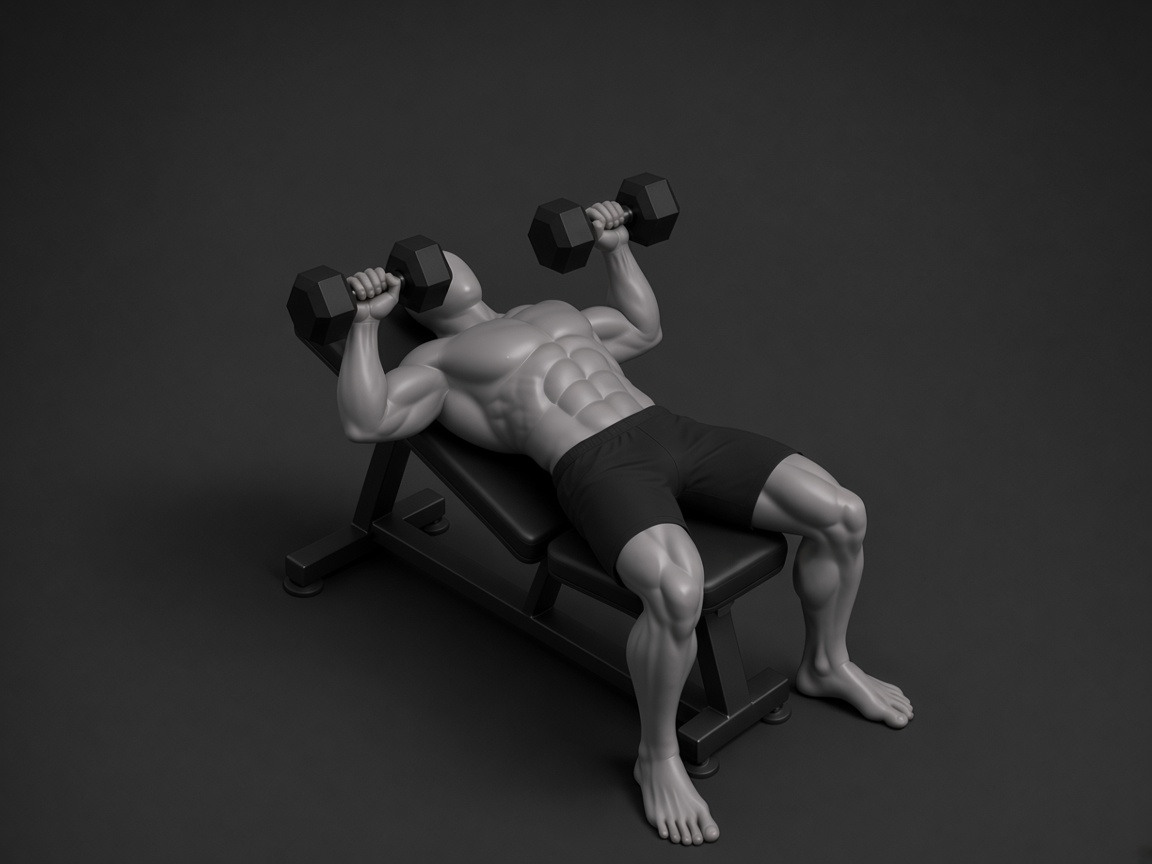
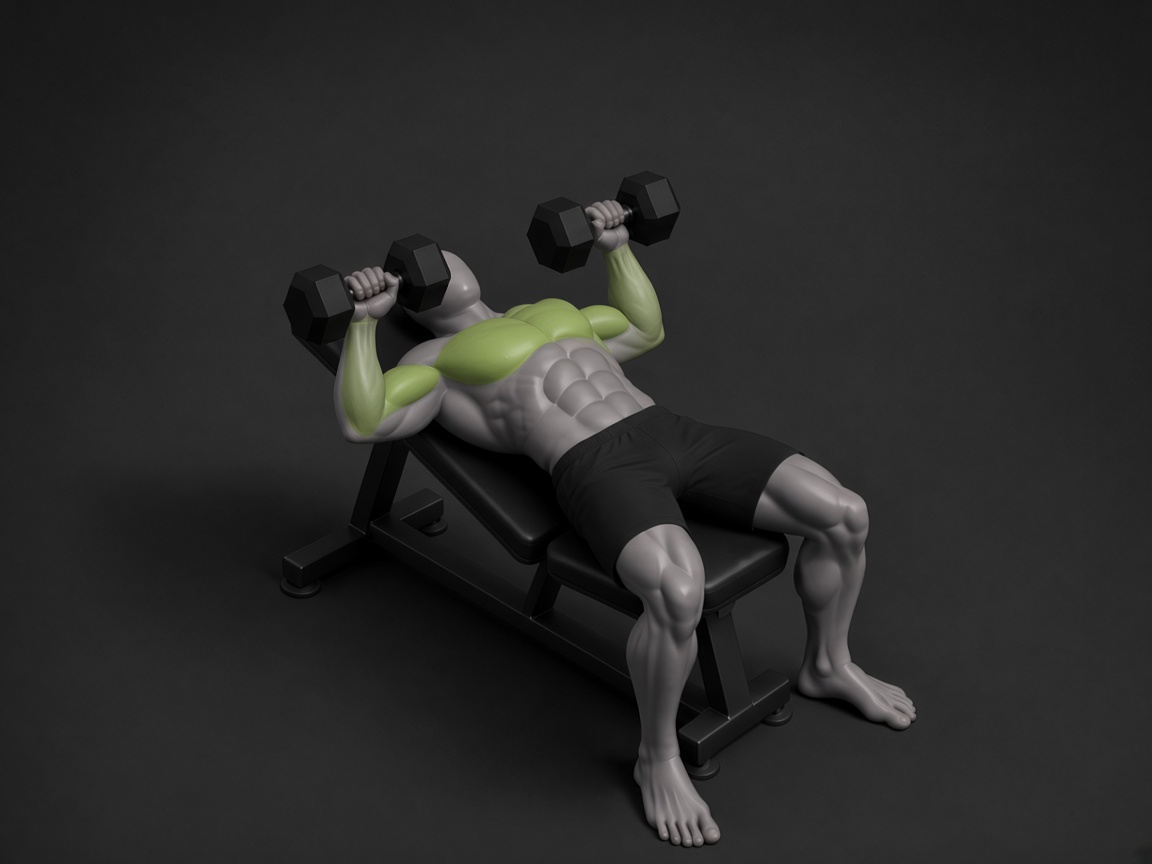
Paint lime primary/aux highlights on bench-press demos and lock the muscle map in the criteria.

Changed region(s): [[0.2812, 0.2812, 0.5938, 0.5], [0.7812, 0.8125, 0.8125, 0.8438], [0.5938, 0.9688, 0.625, 1.0]]

diff --git a/docs/exercise-demo-criteria.md b/docs/exercise-demo-criteria.md
@@ -28,12 +28,36 @@ Playback: **lockout ↔ bottom**, looping (~700 ms each). File: `{slug}-loop.png
 
 Holds with no path (plank, carry) stay **one still**. Custom exercises: **no demo**.
 
+## Muscle highlights
+
+Paint on the gray clay. Do not change pose, camera, or shorts. Keep `_character/reference.png` **unpainted**.
+
+**Color convention**
+
+| Role | Color | Opacity |
+|------|--------|---------|
+| **Primary** (main working muscles) | Solid lime `#B8F000` | **High** — almost opaque (~90%). Must read clearly against gray clay. |
+| **Auxiliary** (helpers) | Same hue, paler `#D4E88A` | **Low** — see-through wash (~40%) so it never matches primary. |
+| Other muscles | Gray clay | None |
+
+Paint **only** the muscles in the table. Abs, obliques, biceps, forearms, hips, and legs stay gray clay. Do not flood the whole arm or whole torso.
+
+**Muscle focus (per lift)**
+
+| Lift | Primary | Auxiliary |
+|------|---------|-----------|
+| Flat dumbbell bench press | Chest, front delts | Triceps |
+| Incline dumbbell press | Chest, front delts | Triceps |
+
+Add a row here when a new lift is painted.
+
 ## Reject
 
 - Different body, face, or shorts color/cut between frames or lifts
 - Zoom or angle jump after align
 - Wrong equipment (e.g. incline bench for flat DB press)
 - One arm lockout while the other is at the chest
+- Primary and auxiliary highlights the same opacity or brightness
 
 ## Build the loop
 
@@ -49,7 +73,7 @@ Aligns bottom to lockout, crops, writes a two-frame animated PNG.
 - `content/exercises/README.md` — where files live
 - `content/exercises/_character/reference.png` — master mannequin for every new lift
 - `content/exercises/dumbbell-bench-press/` — `lockout.png`, `bottom.png`, `loop.png`
-- `content/exercises/incline-dumbbell-press/` — `lockout.png`, `bottom.png`, `loop.png`
+- `content/exercises/incline-dumbbell-press/` — `lockout-plain.png`, `bottom-plain.png`, painted `lockout.png` / `bottom.png`, `loop.png`
 - App copies: `app/src/main/assets/exercises/dumbbell_bench_press.png`, `incline_dumbbell_press.png`
 
 Save new generations under `content/exercises/{slug}/` in this repo. Do not leave the only copy in Cursor’s `assets` folder.
